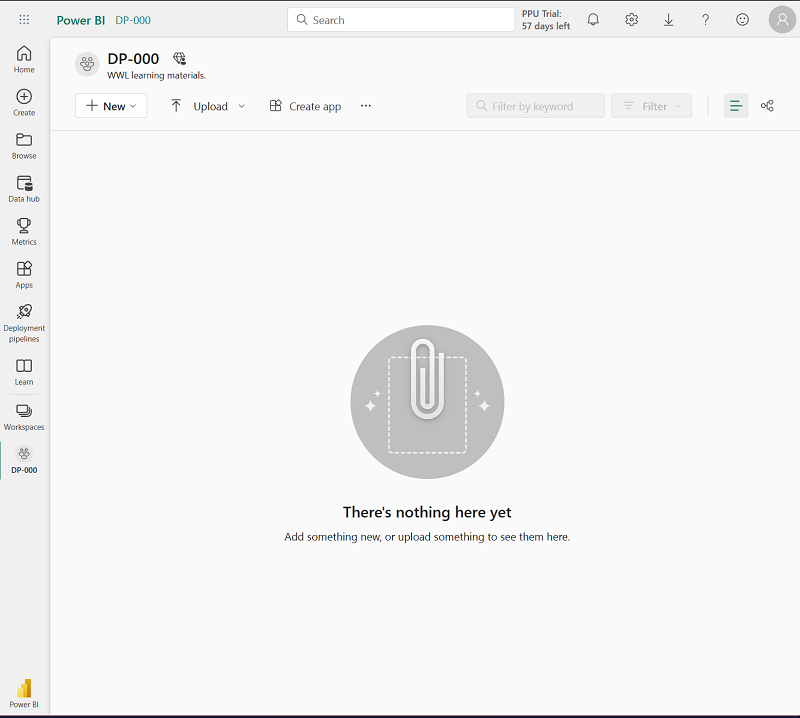
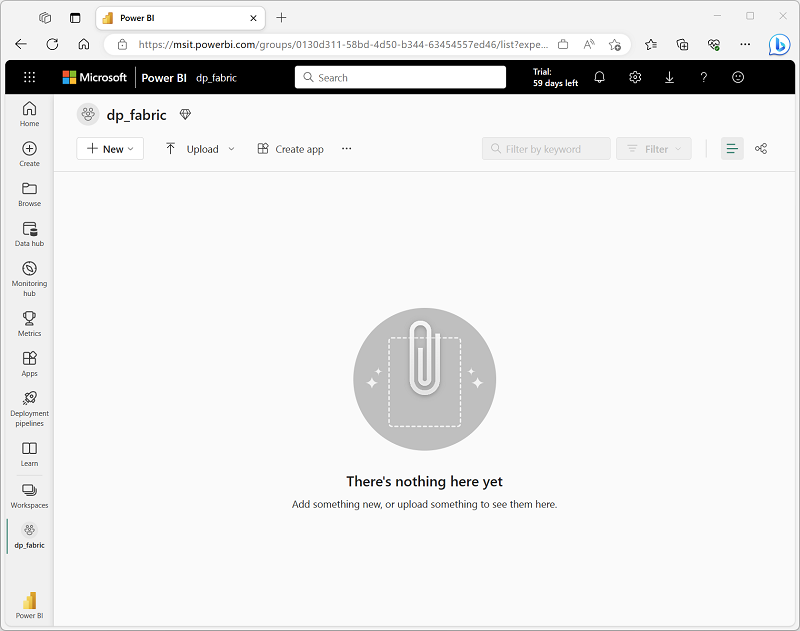
Updated screenshots

diff --git a/Instructions/Labs/02-analyze-spark.md b/Instructions/Labs/02-analyze-spark.md
@@ -29,18 +29,16 @@ Before working with data in Fabric, create a workspace with Fabric capacity enab
 
 Now that you have a workspace, it's time to switch to the *Data engineering* experience in the portal and create a data lakehouse for the data files you're going to analyze.
 
-1. At the bottom left of the Power BI portal, select the **Power BI** icon and switch to the **Data engineering** experience, as shown here:
+1. At the bottom left of the Power BI portal, select the **Power BI** icon and switch to the **Data Engineering** experience.
 
-    ![Screenshot of the experience menu in Power BI.](./Images/data-engineering.png)
-
-2. In the **Data engineering** home page, create a new **Lakehouse** with a name of your choice.
+2. In the **Synapse Data Engineering** home page, create a new **Lakehouse** with a name of your choice.
 
     After a minute or so, a new empty lakehouse will be created. You need to ingest some data into the data lakehouse for analysis. There are multiple ways to do this, but in this exercise you'll simply download and extract a folder of text files your local computer and then upload them to your lakehouse.
 
 3. Download and extract the data files for this exercise from [https://github.com/MicrosoftLearning/dp-data/raw/main/orders.zip](https://github.com/MicrosoftLearning/dp-data/raw/main/orders.zip).
 
 4. After extracting the zipped archive, verify that you have a folder named **orders** that contains CSV files named **2019.csv**, **2020.csv**, and **2021.csv**.
-5. Return to the web browser tab containing your lakehouse, and in the **...** menu for the **Files** folder in the **Lakehouse explorer** pane, select **Upload** and **Upload folder**, and then upload the **orders** folder from your local computer to the lakehouse.
+5. Return to the web browser tab containing your lakehouse, and in the **...** menu for the **Files** folder in the **Explorer** pane, select **Upload** and **Upload folder**, and then upload the **orders** folder from your local computer to the lakehouse.
 6. After the files have been uploaded, expand **Files** and select the **orders** folder; and verify that the CSV files have been uploaded, as shown here:
 
     ![Screenshot of uploaded files in a lakehouse.](./Images/uploaded-files.png)
@@ -85,7 +83,7 @@ Now you're ready to run code that loads the data into a *dataframe*. Dataframes 
     display(df)
     ```
 
-    > **Tip**: You can hide the pane containing the files on the left by using its **<** icon. Doing so will help you focus on the notebook.
+    > **Tip**: You can hide the Lakehouse explorer panes on the left by using their **<<** icons. Doing so will help you focus on the notebook.
 
 3. Use the **&#9655; Run cell** button on the left of the cell to run it.
 
